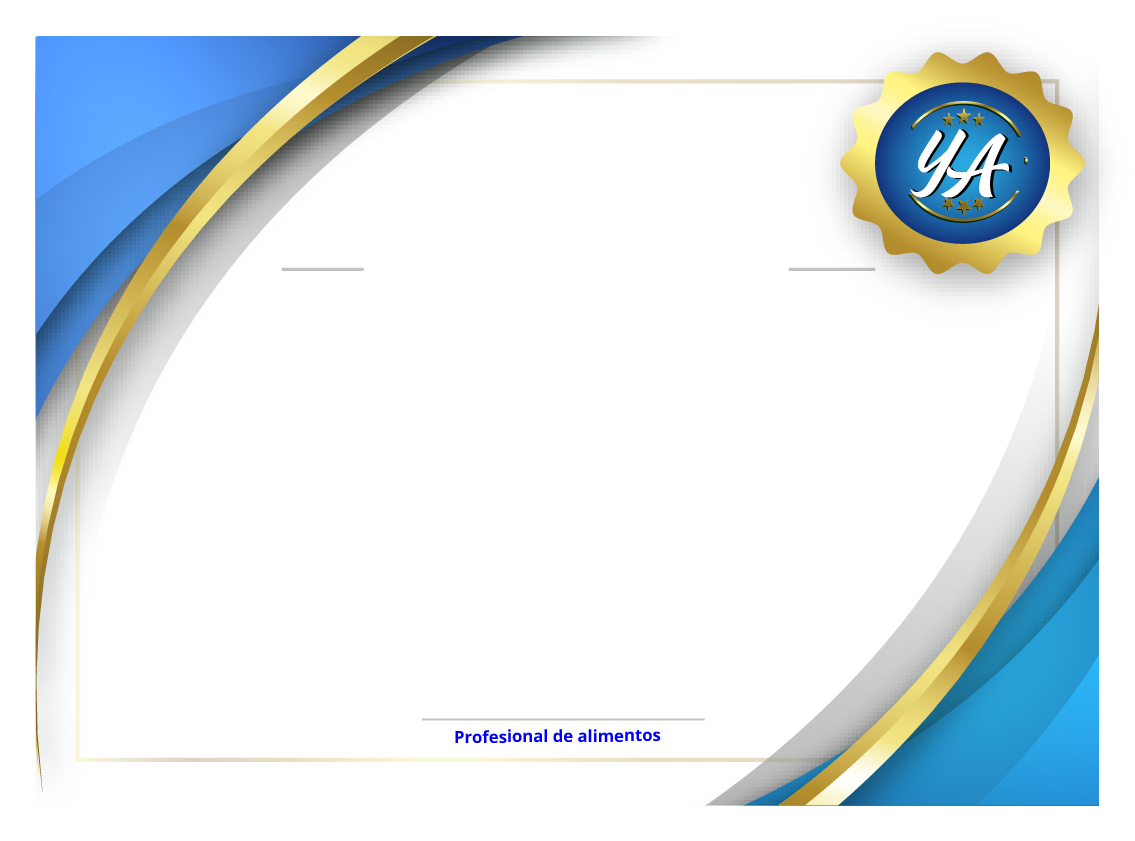
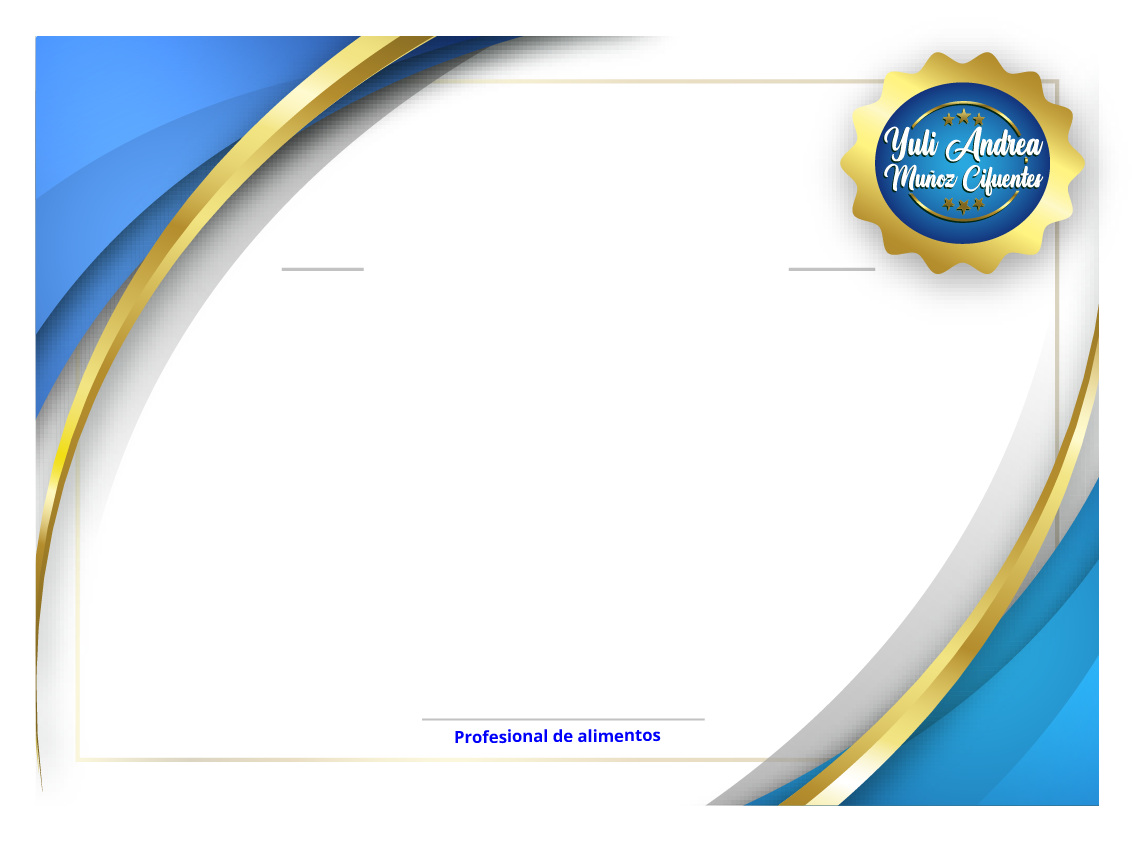
se fue terminado sin revision

Changed region(s): [[0.7709, 0.1546, 0.9251, 0.2473]]

diff --git a/MoncadaCertifica.html b/MoncadaCertifica.html
@@ -52,21 +52,22 @@
       height: auto;
       border: none;
       cursor: pointer;
+      
     }
   </style>
 </head>
 <body>
   <div class="container">
-    <img src="img/CertificadoPrincipal.png" alt="Certificado Principal" style="margin-left: 13px   ;margin-top: 10px; margin-right: -200px;width: 98%;">
+    <img src="img/CertificadoPrincipalE1.png" alt="Certificado Principal" style="margin-left: 13px   ;margin-top: 10px; margin-right: -200px;width: 98%;">
     <div class="overlay">
       <div style="font-family: Arial, Helvetica, sans-serif;"> 
-        <h1 style="font-size: 75px;margin-top: -50px;">CERTIFICADO</h1>
-        <h3 style="margin-top: -55px; color: #c9c9c9;"><B>&nbsp;&nbsp;&nbsp;&nbsp;MANIPULACIÓN HIGIÉNICA DE ALIMENTOS</B></h3>  
-        <h3 style="margin-top: 30px;">HACE CONSTAR QUE:</h3>  
-        <h1 contenteditable="true" style="font-size: 50px;margin-top: 30PX;font-family: COOPER; width: 100%;white-space: nowrap;">NOMBRE</h1>
+        <p style="font-size: 62px;margin-top: -50px;">&nbsp;CERTIFICADO</p>
+        <h3 style="margin-top: -55px; color: #c9c9c9;font-size: 17px;"><B>&nbsp;&nbsp;&nbsp;&nbsp;MANIPULACIÓN HIGIÉNICA DE ALIMENTOS</B></h3>  
+        <p style="margin-top: 30px;font-size:16px;">HACE CONSTAR QUE:</p>  
+        <h1 contenteditable="true" style="font-size: 50px;margin-top: 30PX;font-family: COOPER; width: 100%;white-space: nowrap;text-transform: uppercase;">NOMBRE</h1>
         <h2 contenteditable="true" style="margin-top: -20px;"><B>C.C # </B></h2>  
         
-        <h3 style="margin-top: 20px; color: gray; font-size: 20px;">Asistió a la capacitación sobre<br>MANIPULACIÓN HIGIÉNICA DE ALIMENTOS<BR>con duración de 10 horas.</h3>
+        <p style="margin-top: 20px; color: gray; font-size: 20px;">Asistió a la capacitación sobre<br>MANIPULACIÓN HIGIÉNICA DE ALIMENTOS<BR>con duración de 10 horas.</p>
         <div style="margin-top: -20px; font-size: 25px; color:black;font-weight: bold;white-space: nowrap;">Fecha de expedición <b id="fechaDiv"></b></div>
       </div>
       
